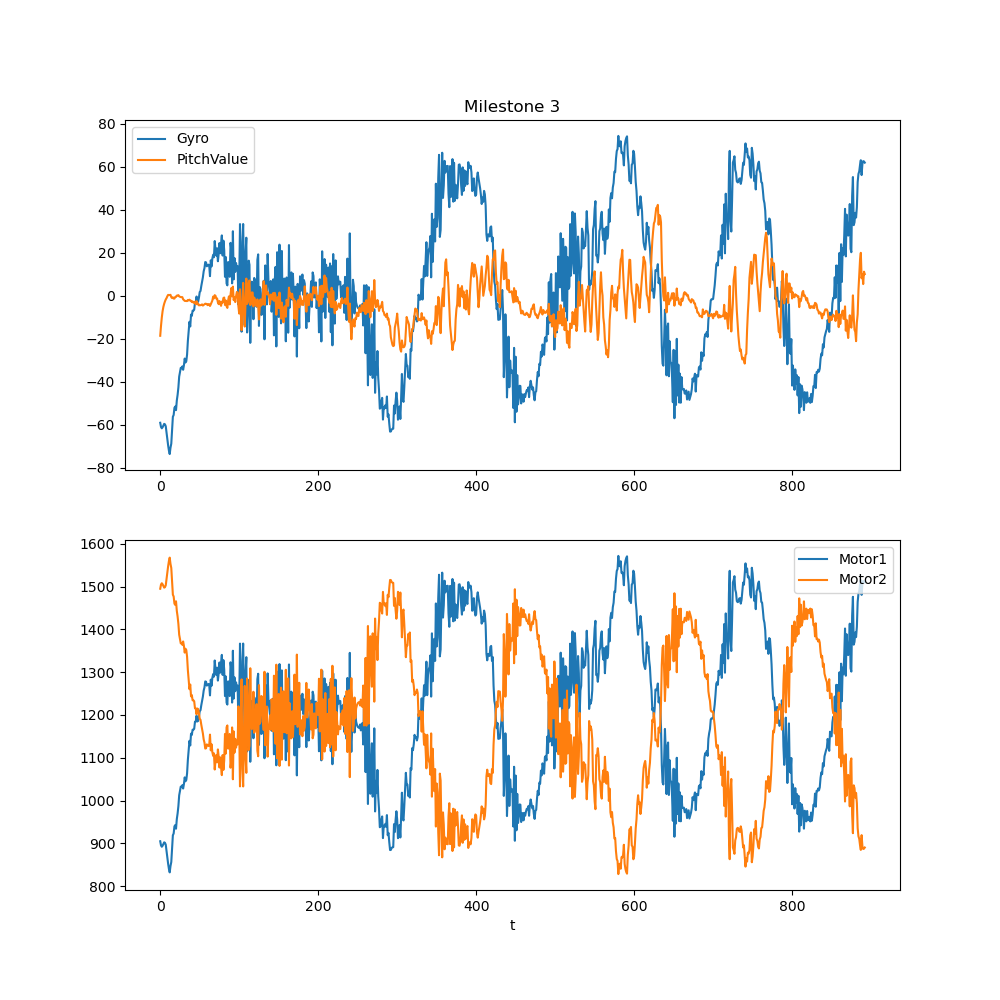
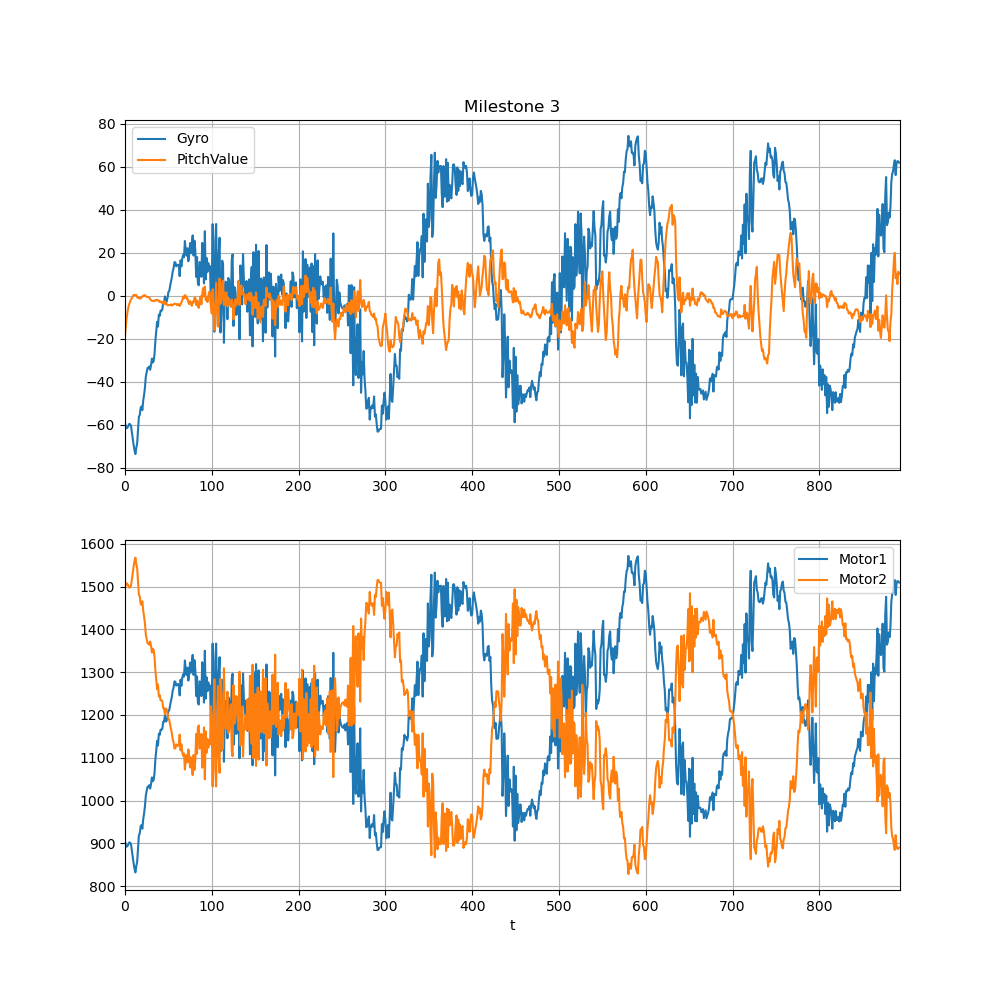
updated plots

diff --git a/plotter.py b/plotter.py
@@ -15,19 +15,23 @@ def plot_data(load_file, save_file, title, x, y):
         split_l = l.replace('\n', '').split(' ')
         for i in range(var_num):
            data[i].append(float(split_l[1 + 2*i]))
-        data[5].append(0)
+        # data[5].append(0)
 
     plt.figure(figsize=(10,10))
     plt.subplot(211)
-    for i in [1, 0, 2]:
+    for i in [1, 0]:
         plt.plot(range(len(content)), data[i], label=labels[i])
-    plt.plot(range(len(content)), data[5], label=" Set Point")
+    # plt.plot(range(len(content)), data[5], label=" Set Point")
     plt.title(title)
+    plt.xlim([0, len(content)])
+    plt.grid()
     plt.legend()
     
     plt.subplot(212)
-    for i in [3, 4]:
+    for i in [2, 3]:
         plt.plot(range(len(content)), data[i], label=labels[i])
+    plt.xlim([0, len(content)])
+    plt.grid()
     plt.legend()
 
     plt.xlabel(x)
@@ -36,8 +40,8 @@ def plot_data(load_file, save_file, title, x, y):
     plt.savefig(save_file)
 
 plot_data(
-    load_file='week4_data/stretchmilestone.txt',
-    save_file='week4_data/stretchmilestone.png',
-    title="Stretch Milestone",
+    load_file='week4_data/Milestone3.txt',
+    save_file='week4_data/milestone3.png',
+    title="Milestone 3",
     x="t",
     y="")
